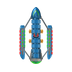
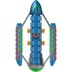
Precursor Flagship sprite fills its whole hex
Claude-Session: https://claude.ai/code/session_01PJyw2JrKbATJBzLyBMqgLP

diff --git a/tools/make_art.py b/tools/make_art.py
@@ -255,6 +255,9 @@ def ship_scale(uqm, ship_dir, stem, hd):
 LEVELS = {1: (0.82, None), 2: (0.91, (2.5, 1.0)), 3: (1.0, (3.5, 1.6))}
 # Level 3 is up to this much bigger than the ship's base size, if it fits.
 LEVEL_GROWTH = 1.12
+# Ships whose level-1 sprite fills the whole hex instead (the Precursor
+# Flagship leads with it, so it should look huge).
+FILL_HEX = {"precursor-flagship"}
 
 
 def glow_colour(img):
@@ -288,6 +291,8 @@ def build_ships(uqm, out):
         colour = glow_colour(hd)
         for level, (size, glow) in LEVELS.items():
             scale = top * size
+            if uid in FILL_HEX and level == 1:
+                scale = min(HEX / max(trim(rotated(hd, a)).size) for a in FACINGS.values())
             for facing, angle in FACINGS.items():
                 r = trim(rotated(hd, angle))
                 w = max(1, round(r.width * scale))
